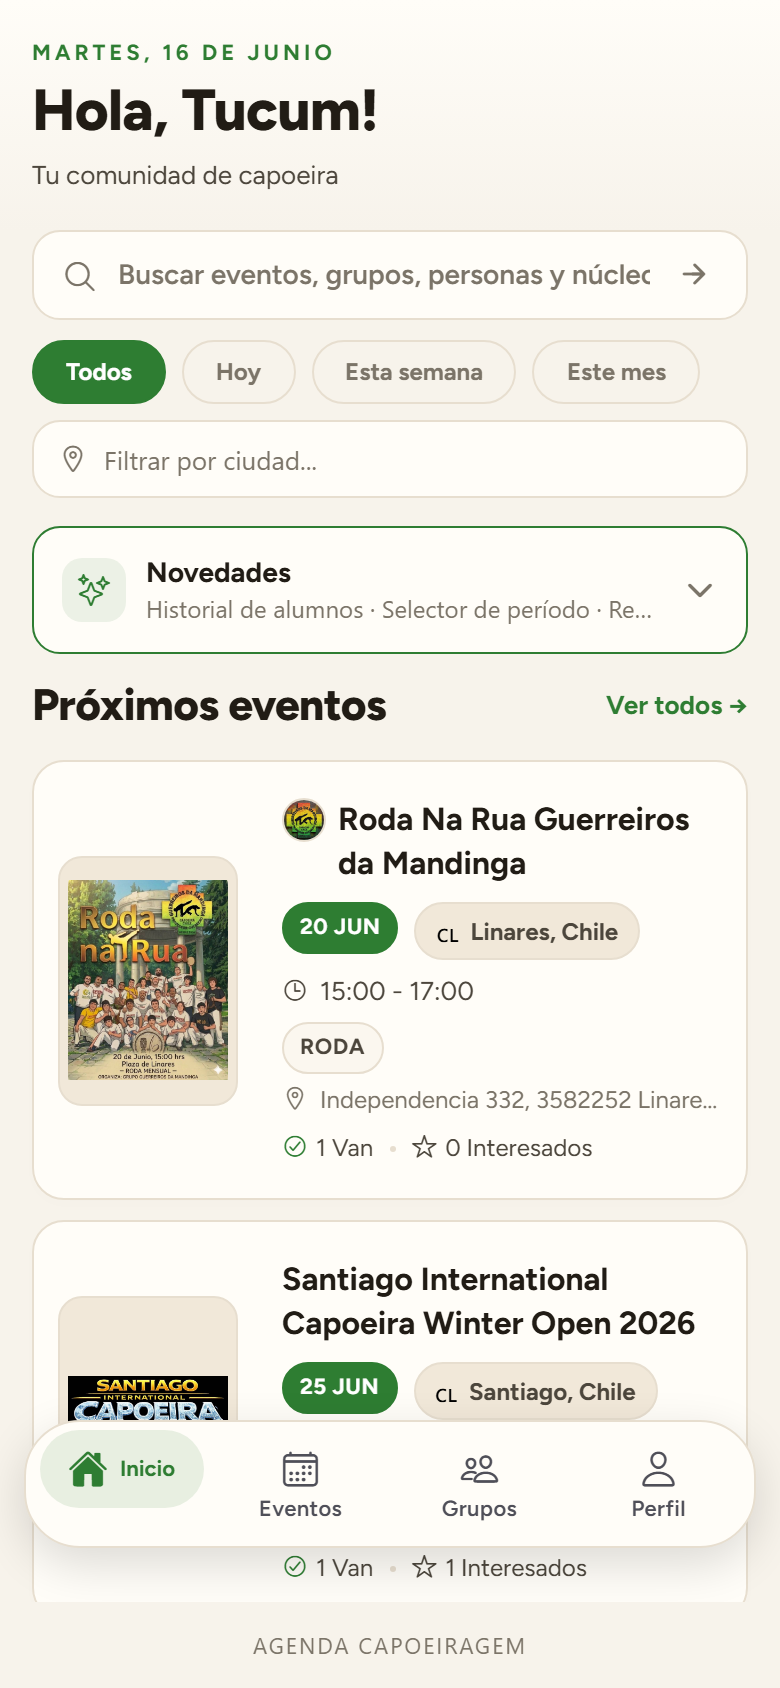
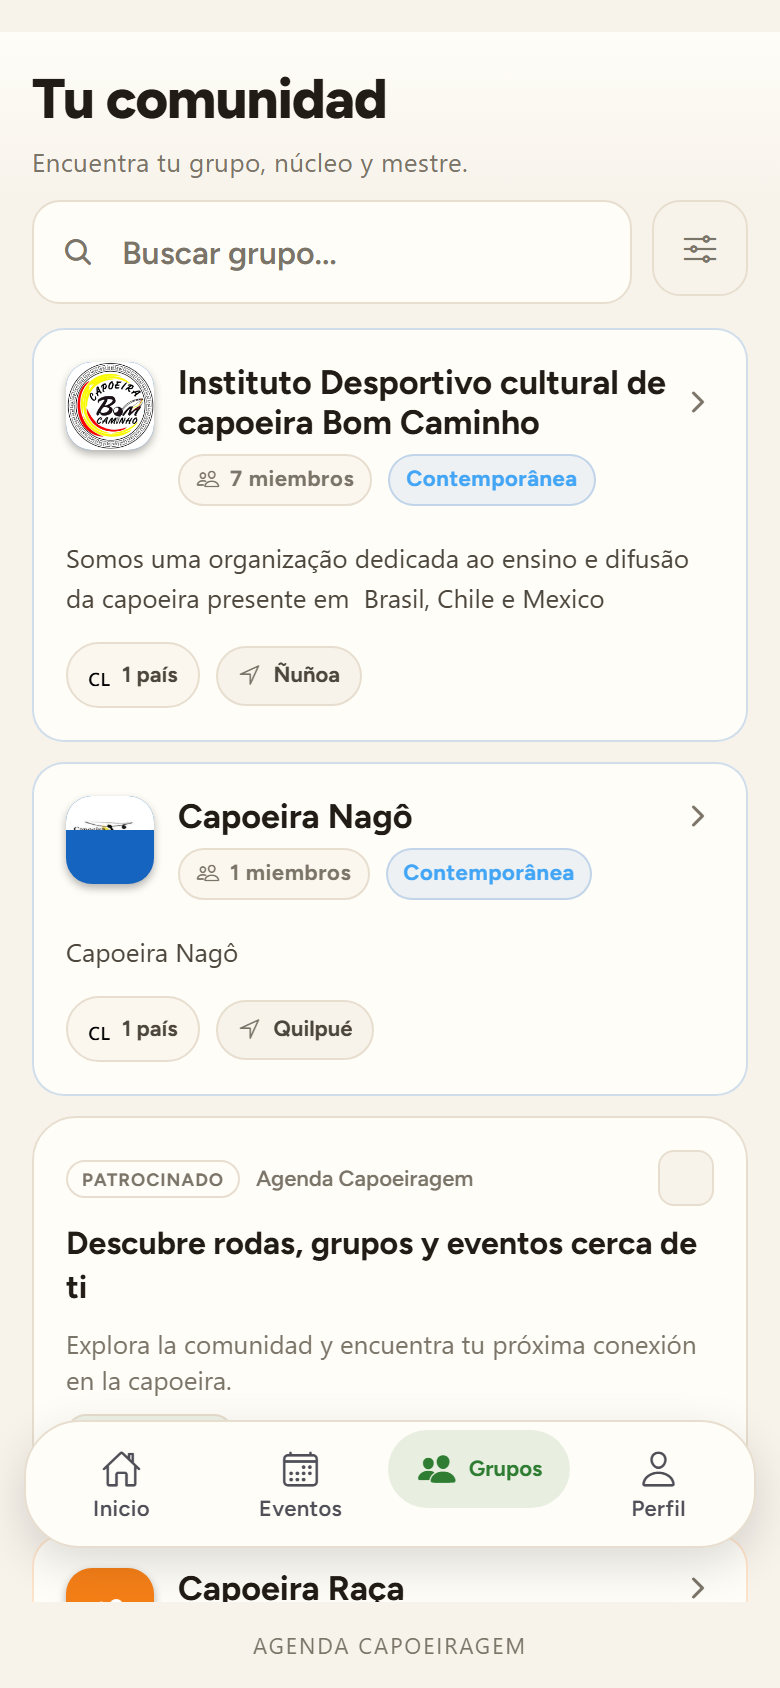
refactor: reduce landing page screenshots to 3 key ones, optimize space
- Educators: 2 phone spotlights (attendance + kpi) + remaining 2 as mini-cards
- Students: 1 phone spotlight (event detail) + map demoted to mini-card grid
- CTA: remove phone, single-column focused layout
- map.png: fixed to actual groups/community screen
- graduation.png: graduar-B (Graduar tab active)
- event.png: real event detail page

Changed region(s): [[0.0308, 0.0308, 0.9538, 0.955], [0.0615, 0.9242, 0.5538, 0.955]]

diff --git a/components/public/AppBenefitsStudents.tsx b/components/public/AppBenefitsStudents.tsx
@@ -4,17 +4,10 @@ import { type FeatureMockupType } from '@/components/public/FeatureMockup'
 type SpotlightItem = { tag: string; title: string; desc: string; mockup: FeatureMockupType }
 type MiniItem = { t: string; d: string }
 
-function SpotlightRow({ item, flip }: { item: SpotlightItem; flip?: boolean }) {
+function SpotlightRow({ item }: { item: SpotlightItem }) {
   return (
-    <div
-      className={[
-        'border-b border-border py-10 lg:py-16',
-        'flex flex-col items-center gap-8',
-        'lg:flex-row lg:gap-16',
-        flip ? 'lg:flex-row-reverse' : '',
-      ].join(' ')}
-    >
-      <div className="w-full space-y-5 lg:flex-1 lg:max-w-[54ch]">
+    <div className="border-b border-border py-10 lg:py-14 flex flex-col items-center gap-8 lg:flex-row lg:gap-16">
+      <div className="w-full space-y-4 lg:flex-1 lg:max-w-[50ch]">
         <span
           className="inline-block rounded-full px-3.5 py-1.5 text-[10px] font-black uppercase tracking-[0.18em]"
           style={{ background: 'var(--ink)', color: 'var(--bg)' }}
@@ -23,11 +16,11 @@ function SpotlightRow({ item, flip }: { item: SpotlightItem; flip?: boolean }) {
         </span>
         <h3
           className="font-black text-ink leading-[0.96] tracking-[-0.035em]"
-          style={{ fontSize: 'clamp(26px, 3vw, 40px)' }}
+          style={{ fontSize: 'clamp(24px, 2.6vw, 36px)' }}
         >
           {item.title}
         </h3>
-        <p className="text-base leading-relaxed text-text-secondary lg:text-[1.05rem]">
+        <p className="text-base leading-relaxed text-text-secondary">
           {item.desc}
         </p>
       </div>
@@ -38,11 +31,13 @@ function SpotlightRow({ item, flip }: { item: SpotlightItem; flip?: boolean }) {
   )
 }
 
-function MiniFeatureCard({ item }: { item: MiniItem }) {
+function MiniFeatureCard({ item }: { item: MiniItem | SpotlightItem }) {
+  const title = 't' in item ? item.t : item.tag
+  const desc = 'd' in item ? item.d : item.desc
   return (
-    <div className="rounded-[20px] border border-border bg-bg p-6 transition-colors duration-150 hover:border-accent/30">
-      <h4 className="font-bold text-ink">{item.t}</h4>
-      <p className="mt-2 text-sm leading-relaxed text-text-secondary">{item.d}</p>
+    <div className="rounded-2xl border border-border p-5 transition-colors duration-150 hover:border-accent/30">
+      <h4 className="font-bold text-ink">{title}</h4>
+      <p className="mt-2 text-sm leading-relaxed text-text-secondary">{desc}</p>
     </div>
   )
 }
@@ -50,6 +45,10 @@ function MiniFeatureCard({ item }: { item: MiniItem }) {
 export default function AppBenefitsStudents({ copy }: { copy: any }) {
   const spotlights: SpotlightItem[] = copy.studentsSpotlights ?? []
   const extras: MiniItem[] = copy.studentsExtras ?? []
+
+  // Show the last spotlight (event) with phone; demote the rest to mini-cards
+  const featured = spotlights.slice(-1)
+  const demoted = spotlights.slice(0, -1)
 
   return (
     <section className="bg-bg">
@@ -69,14 +68,17 @@ export default function AppBenefitsStudents({ copy }: { copy: any }) {
           <div className="hidden flex-1 border-t border-border sm:block" />
         </div>
 
-        {spotlights.map((item, i) => (
-          <SpotlightRow key={item.tag} item={item} flip={i % 2 !== 0} />
+        {featured.map((item) => (
+          <SpotlightRow key={item.tag} item={item} />
         ))}
 
-        {extras.length > 0 && (
-          <div className="py-10 lg:py-16">
-            <p className="mb-6 text-xs font-black uppercase tracking-[0.2em] text-text-muted">{copy.studentsExtrasLabel}</p>
-            <div className="grid gap-4 sm:grid-cols-2">
+        {(demoted.length > 0 || extras.length > 0) && (
+          <div className="py-10 lg:py-12">
+            <p className="mb-5 text-xs font-black uppercase tracking-[0.2em] text-text-muted">{copy.studentsExtrasLabel}</p>
+            <div className="grid gap-4 sm:grid-cols-2 lg:grid-cols-3">
+              {demoted.map((item) => (
+                <MiniFeatureCard key={item.tag} item={item} />
+              ))}
               {extras.map((item) => (
                 <MiniFeatureCard key={item.t} item={item} />
               ))}

diff --git a/components/public/AppDownloadCTA.tsx b/components/public/AppDownloadCTA.tsx
@@ -1,5 +1,3 @@
-import ScreenshotFrame from '@/components/public/ScreenshotFrame'
-
 const PLAY_STORE_URL = 'https://play.google.com/store/apps/details?id=com.capoeiraapp.mobile'
 
 function PlayBadgeIcon() {
@@ -29,46 +27,32 @@ export default function AppDownloadCTA({ copy }: { copy: any }) {
         className="pointer-events-none absolute -left-64 -top-64 h-[600px] w-[600px] rounded-full bg-accent/10 blur-[120px]"
       />
 
-      <div className="page-shell relative z-10 py-16 lg:py-32">
-        <div className="grid items-center gap-16 lg:grid-cols-[1fr_420px] lg:gap-24">
+      <div className="page-shell relative z-10 py-16 lg:py-24">
+        <div className="max-w-[52ch] space-y-8">
+          <p className="text-[11px] font-bold uppercase tracking-[0.22em] text-accent">
+            Agenda Capoeiragem
+          </p>
 
-          <div className="space-y-8">
-            <p className="text-[11px] font-bold uppercase tracking-[0.22em] text-accent">
-              Agenda Capoeiragem
-            </p>
+          <h2
+            className="font-black leading-[0.95] tracking-[-0.04em] text-white"
+            style={{ fontSize: 'clamp(30px, 8vw, 68px)' }}
+          >
+            {copy.appCtaTitle}
+          </h2>
 
-            <h2
-              className="font-black leading-[0.95] tracking-[-0.04em] text-white"
-              style={{ fontSize: 'clamp(30px, 8vw, 68px)' }}
-            >
-              {copy.appCtaTitle}
-            </h2>
+          <p className="text-base leading-relaxed text-white/55 lg:text-lg">
+            {copy.appCtaBody}
+          </p>
 
-            <p className="max-w-[40ch] text-base leading-relaxed text-white/55 lg:text-lg">
-              {copy.appCtaBody}
-            </p>
-
-            <a
-              href={PLAY_STORE_URL}
-              target="_blank"
-              rel="noopener noreferrer"
-              className="group inline-flex h-14 items-center gap-3 rounded-2xl bg-accent px-8 text-sm font-bold text-white shadow-[0_4px_24px_-4px_oklch(0.56_0.19_158/0.38)] transition-[transform,box-shadow] duration-200 ease-[var(--ease-out)] hover:-translate-y-[2px] hover:shadow-[0_8px_32px_-4px_oklch(0.56_0.19_158/0.48)] active:scale-[0.97] active:translate-y-0"
-            >
-              <PlayBadgeIcon />
-              {copy.appCtaButton}
-            </a>
-          </div>
-
-          <div className="relative mx-auto hidden lg:block">
-            <div
-              aria-hidden
-              className="pointer-events-none absolute inset-0 scale-90 rounded-full bg-accent/15 blur-3xl"
-            />
-            <div className="floating-rot relative" style={{ '--rot': '-2deg' } as React.CSSProperties}>
-              <ScreenshotFrame src="/mockups/event.png" alt="Agenda Capoeiragem events screen" size="lg" />
-            </div>
-          </div>
-
+          <a
+            href={PLAY_STORE_URL}
+            target="_blank"
+            rel="noopener noreferrer"
+            className="group inline-flex h-14 items-center gap-3 rounded-2xl bg-accent px-8 text-sm font-bold text-white shadow-[0_4px_24px_-4px_oklch(0.56_0.19_158/0.38)] transition-[transform,box-shadow] duration-200 ease-[var(--ease-out)] hover:-translate-y-[2px] hover:shadow-[0_8px_32px_-4px_oklch(0.56_0.19_158/0.48)] active:scale-[0.97] active:translate-y-0"
+          >
+            <PlayBadgeIcon />
+            {copy.appCtaButton}
+          </a>
         </div>
       </div>
     </section>

diff --git a/components/public/AppBenefitsEducators.tsx b/components/public/AppBenefitsEducators.tsx
@@ -7,13 +7,13 @@ function SpotlightRow({ item, flip }: { item: SpotlightItem; flip?: boolean }) {
   return (
     <div
       className={[
-        'border-b border-border py-10 lg:py-16',
+        'border-b border-border py-10 lg:py-14',
         'flex flex-col items-center gap-8',
         'lg:flex-row lg:gap-16',
         flip ? 'lg:flex-row-reverse' : '',
       ].join(' ')}
     >
-      <div className="w-full space-y-5 lg:flex-1 lg:max-w-[54ch]">
+      <div className="w-full space-y-4 lg:flex-1 lg:max-w-[50ch]">
         <span
           className="inline-block rounded-full px-3.5 py-1.5 text-[10px] font-black uppercase tracking-[0.18em]"
           style={{ background: 'var(--accent)', color: 'var(--bg)' }}
@@ -22,11 +22,11 @@ function SpotlightRow({ item, flip }: { item: SpotlightItem; flip?: boolean }) {
         </span>
         <h3
           className="font-black text-ink leading-[0.96] tracking-[-0.035em]"
-          style={{ fontSize: 'clamp(26px, 3vw, 40px)' }}
+          style={{ fontSize: 'clamp(24px, 2.6vw, 36px)' }}
         >
           {item.title}
         </h3>
-        <p className="text-base leading-relaxed text-text-secondary lg:text-[1.05rem]">
+        <p className="text-base leading-relaxed text-text-secondary">
           {item.desc}
         </p>
       </div>
@@ -37,8 +37,25 @@ function SpotlightRow({ item, flip }: { item: SpotlightItem; flip?: boolean }) {
   )
 }
 
+function MiniCard({ item }: { item: SpotlightItem }) {
+  return (
+    <div className="rounded-2xl border border-border p-5">
+      <span
+        className="inline-block rounded-full px-3 py-1 text-[9px] font-black uppercase tracking-[0.18em]"
+        style={{ background: 'var(--accent)', color: 'var(--bg)' }}
+      >
+        {item.tag}
+      </span>
+      <h4 className="mt-3 text-base font-black text-ink">{item.title}</h4>
+      <p className="mt-1.5 text-sm leading-relaxed text-text-secondary">{item.desc}</p>
+    </div>
+  )
+}
+
 export default function AppBenefitsEducators({ copy }: { copy: any }) {
   const spotlights: SpotlightItem[] = copy.educatorsSpotlights ?? []
+  const featured = spotlights.slice(0, 2)
+  const rest = spotlights.slice(2)
 
   return (
     <section className="bg-bg">
@@ -58,9 +75,17 @@ export default function AppBenefitsEducators({ copy }: { copy: any }) {
           <div className="hidden flex-1 border-t border-border sm:block" />
         </div>
 
-        {spotlights.map((item, i) => (
+        {featured.map((item, i) => (
           <SpotlightRow key={item.tag} item={item} flip={i % 2 !== 0} />
         ))}
+
+        {rest.length > 0 && (
+          <div className="grid gap-4 border-b border-border py-10 sm:grid-cols-2 lg:py-12">
+            {rest.map((item) => (
+              <MiniCard key={item.tag} item={item} />
+            ))}
+          </div>
+        )}
       </div>
     </section>
   )
